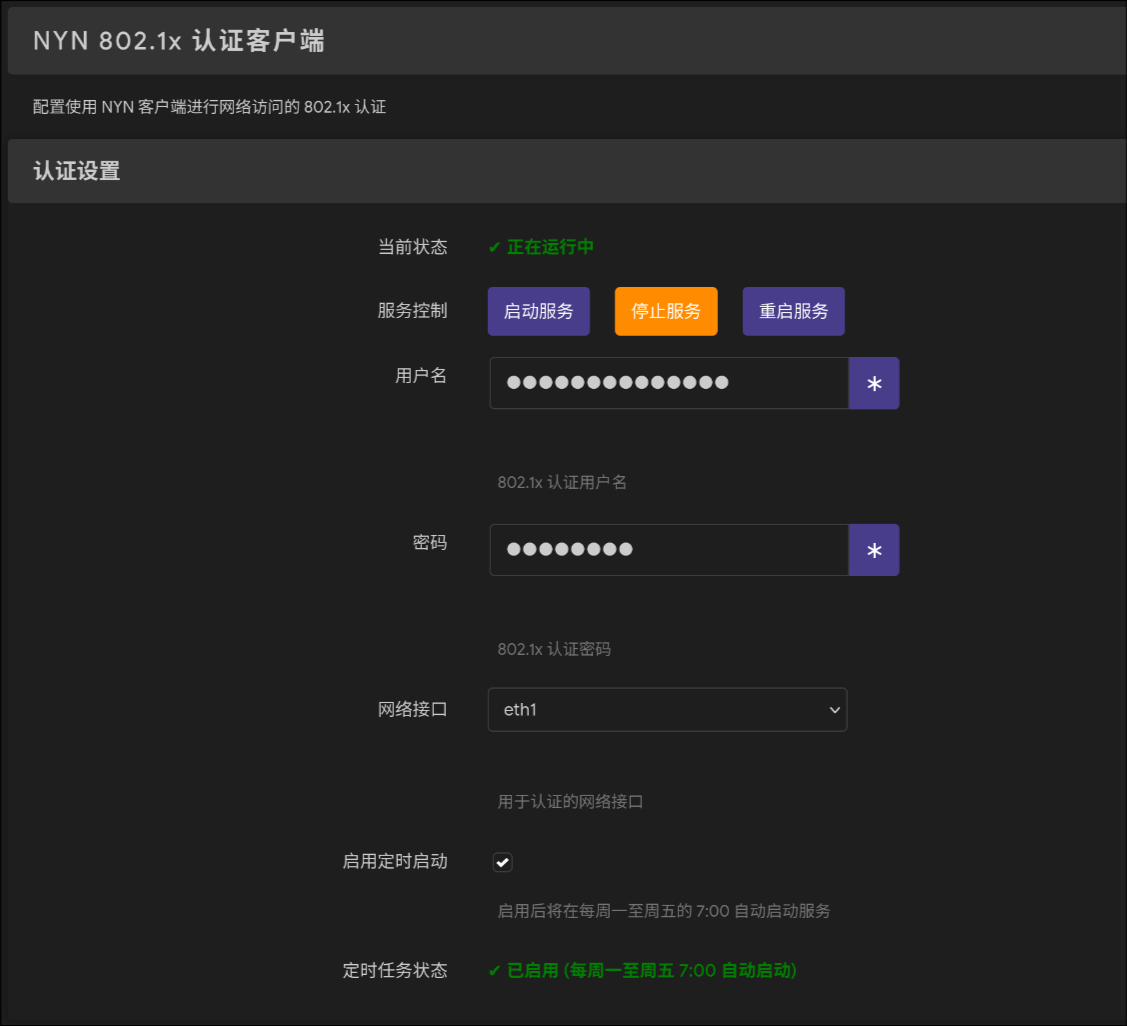
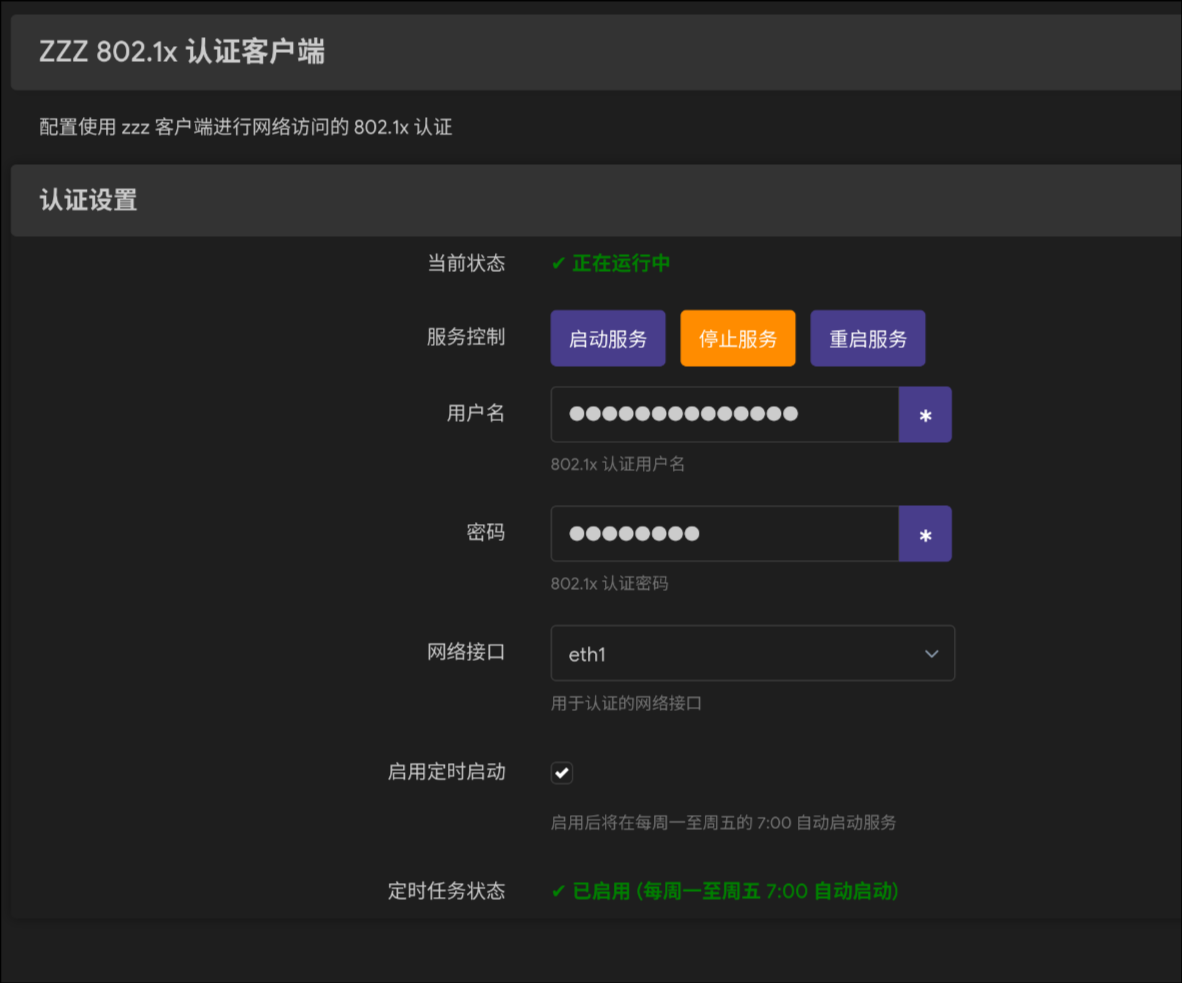
style:readme&&pic

diff --git a/README.md b/README.md
@@ -6,6 +6,8 @@
   <img src="https://github.com/Dichgrem/luci-app-nyn/blob/main/screenshot.png" width="400">
 </p>
 
+> Attention ! The nyn project is archived and it is recommended to use the c language version of zzz instead of it ! In order to commemorate nyn, the name of this project is not modified.
+
 ## How to build
 
 - First clone this repository to the package directory of the openwrt you want to compile:
@@ -19,7 +21,7 @@ git clone https://github.com/Dichgrem/luci-app-nyn.git
 - Finally, run
 ```
 make package/luci-app-nyn/clean V=s
-make package/luci-app-nyn/compile V=s 
+make package/luci-app-nyn/compile V=s
 ```
 and
 ```
@@ -41,4 +43,3 @@ bin/packages/x86_64/base/luci-app-nyn_0_all.ipk
 
 - [diredocks/nyn](https://github.com/diredocks/nyn)
 - [bitdust/njit8021xclient](https://github.com/bitdust/njit8021xclient)
-
